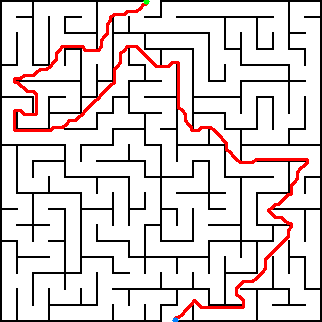
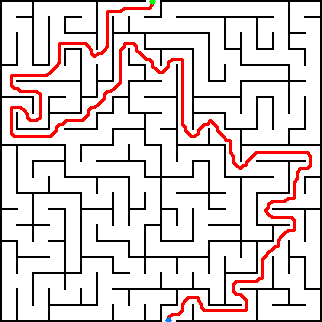
Finalized A*

diff --git a/src/astar.py b/src/astar.py
@@ -119,6 +119,43 @@ def line_is_free(image, start, end, free_threshold=128):
     return True
 
 
+def inflate_obstacles(image, inflation_radius=1, free_threshold=128):
+    """
+    Expand dark obstacle pixels by inflation_radius pixels.
+
+    Bright pixels are free. Dark pixels are obstacles. The returned image keeps
+    the same bright/free convention, but any pixel near an obstacle is darkened.
+    """
+    if inflation_radius <= 0:
+        return image
+
+    obstacle_mask = image < free_threshold
+    inflated_mask = obstacle_mask.copy()
+
+    for dy in range(-inflation_radius, inflation_radius + 1):
+        for dx in range(-inflation_radius, inflation_radius + 1):
+            if dx * dx + dy * dy > inflation_radius * inflation_radius:
+                continue
+
+            src_y0 = max(0, -dy)
+            src_y1 = min(image.shape[0], image.shape[0] - dy)
+            src_x0 = max(0, -dx)
+            src_x1 = min(image.shape[1], image.shape[1] - dx)
+
+            dst_y0 = max(0, dy)
+            dst_y1 = min(image.shape[0], image.shape[0] + dy)
+            dst_x0 = max(0, dx)
+            dst_x1 = min(image.shape[1], image.shape[1] + dx)
+
+            inflated_mask[dst_y0:dst_y1, dst_x0:dst_x1] |= obstacle_mask[
+                src_y0:src_y1, src_x0:src_x1
+            ]
+
+    inflated = image.copy()
+    inflated[inflated_mask] = 0
+    return inflated
+
+
 def create_nodes(
     N,
     map_image,
@@ -126,6 +163,7 @@ def create_nodes(
     free_threshold=128,
     free_fraction_threshold=0.5,
     allow_corner_cutting=False,
+    obstacle_inflation_radius=4,
 ):
     """
     Create an N x N graph of uniformly spaced pixel-space A* nodes.
@@ -146,6 +184,11 @@ def create_nodes(
         raise ValueError("connectivity must be 4 or 8")
 
     image = _to_grayscale(map_image)
+    image = inflate_obstacles(
+        image,
+        inflation_radius=obstacle_inflation_radius,
+        free_threshold=free_threshold,
+    )
     height, width = image.shape
     node_grid = np.empty((N, N), dtype=object)
     nodes = []
@@ -253,16 +296,17 @@ def path_to_pixels(path):
             points.append(item.coordinates())
         else:
             x, y = item
-            points.append((float(x), float(y)))
+            points.append((round(float(x),3), round(float(y),3)))
     return points
 
 
-def spline_path(path, samples_per_segment=10):
+def spline_path(path, samples_per_segment=10, control_point_stride=10):
     """
     Return a Catmull-Rom spline interpolation of an A* path in pixel space.
 
-    The spline passes through the A* points. It does not re-check collision
-    against the map image, so use this as a geometric smoothing step after A*.
+    The spline passes through every control_point_stride-th A* point, plus the
+    start and goal. It does not re-check collision against the map image, so use
+    this as a geometric smoothing step after A*.
     """
     points = path_to_pixels(path)
     if points is None:
@@ -271,8 +315,16 @@ def spline_path(path, samples_per_segment=10):
         return points
     if samples_per_segment < 1:
         raise ValueError("samples_per_segment must be at least 1")
+    if control_point_stride < 1:
+        raise ValueError("control_point_stride must be at least 1")
 
-    pts = np.array(points, dtype=float)
+    control_points = points[::control_point_stride]
+    if control_points[-1] != points[-1]:
+        control_points.append(points[-1])
+    if len(control_points) < 3:
+        control_points = points
+
+    pts = np.array(control_points, dtype=float)
     smoothed = []
 
     for i in range(len(pts) - 1):
@@ -295,6 +347,14 @@ def spline_path(path, samples_per_segment=10):
 
     smoothed.append((float(pts[-1, 0]), float(pts[-1, 1])))
     return smoothed
+
+
+def build_spline(path, samples_per_segment=10, control_point_stride=10):
+    return spline_path(
+        path,
+        samples_per_segment=samples_per_segment,
+        control_point_stride=control_point_stride,
+    )
 
 
 def save_plan_overlay(map_image, path, output_path, color=(0, 0, 255), thickness=2):
@@ -334,6 +394,7 @@ def save_spline_overlay(
     path,
     output_path,
     samples_per_segment=10,
+    control_point_stride=10,
     raw_color=(255, 0, 0),
     spline_color=(255, 0, 255),
 ):
@@ -349,7 +410,11 @@ def save_spline_overlay(
         raise ValueError(f"Expected a 2D or 3D image array, got shape {image.shape}")
 
     raw_points = path_to_pixels(path)
-    smooth_points = spline_path(path, samples_per_segment=samples_per_segment)
+    smooth_points = spline_path(
+        path,
+        samples_per_segment=samples_per_segment,
+        control_point_stride=control_point_stride,
+    )
 
     if raw_points is None or len(raw_points) == 0:
         cv2.imwrite(output_path, overlay)
@@ -384,19 +449,19 @@ if __name__ == "__main__":
     start = free_nodes[0]
     goal = free_nodes[-1]
     path = astar(nodes, start, goal)
+    _spline_path = spline_path(path, samples_per_segment=20, control_point_stride=4)
 
     if path is None:
         print("No path found")
     else:
         print(f"Path found with {len(path)} nodes")
-        print(path_to_pixels(path))
+        print(path_to_pixels(_spline_path))
         os.makedirs("outputs", exist_ok=True)
         save_plan_overlay(arr, path, "outputs/astar_overlay.png")
         save_plan_overlay(
             arr,
-            spline_path(path, samples_per_segment=1000),
+            _spline_path,
             "outputs/astar_spline_overlay.png",
             color=(255, 0, 255),
-            thickness=3,
+            thickness=2,
         )
-        save_spline_overlay(arr, path, "outputs/astar_raw_vs_spline_overlay.png")
